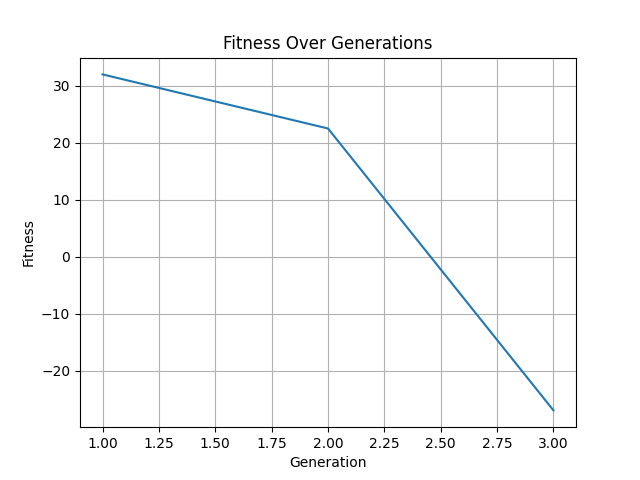
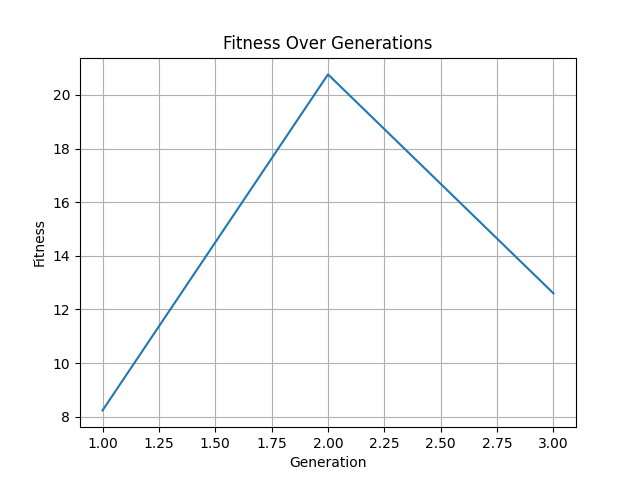
added our agent

diff --git a/project/ga_betting.py b/project/ga_betting.py
@@ -11,10 +11,10 @@ from known_strat import regular_table_known, ace_table_known, pair_table_known
 
 K = 20
 SEED = 42
-POP_SIZE = 10
+POP_SIZE = 100
 SIGMA = 4
-MAX_GENS = 2
-NR_ROUNDS = 30
+MAX_GENS = 250
+NR_ROUNDS = 100000
 CROSSOVER = True
 BET_TABLE_SIZE = 15
 MU = 4/BET_TABLE_SIZE
@@ -180,7 +180,7 @@ def test_different_agents():
     print(f'Fittest agent (known strat): {best_agent.betting_table.bets}')
     known_fitnesses.extend(fitnesses)
 
-    with open('results/best_agent_mu5.pkl', 'rb') as f:
+    with open('results/best_agent_ours.pkl', 'rb') as f:
         our_agent = pickle.load(f)
     global CUR_STRAT
     CUR_STRAT = our_agent.getAgentStrategy()
@@ -237,8 +237,14 @@ def main():
     np.random.seed(SEED)
     # test_different_mu()
     # run_single_algorithm()
-    # test_different_agents()
-    test_different_deck_count()
+    test_different_agents()
+    # test_different_deck_count()
+    # with open('results/best_agent_ours.pkl', 'rb') as f:
+    #     our_agent = pickle.load(f)
+    # global CUR_STRAT
+    # print(CUR_STRAT)
+    # CUR_STRAT = our_agent.getAgentStrategy()
+    # print(CUR_STRAT)
 
 if __name__ == '__main__':
     main()

diff --git a/project/agent.py b/project/agent.py
@@ -256,8 +256,10 @@ def save_agent_to_file(agent, filename_pickle):
         pickle.dump(agent, file) # Pickling in case we want to run experiments on the best agent.
 
 if __name__ == "__main__":
+    with open('results/best_agent_ours.pkl', 'rb') as f:
+        our_agent = pickle.load(f)
     known_strat = DecisionTables(lookup_table_regular=regular_table_known,lookup_table_ace=ace_table_known, lookup_table_pair=pair_table_known)
-    agent = Agent(100000, decision_tables=known_strat)
+    agent = Agent(10000000, decision_tables=our_agent.getAgentStrategy())
     agent.decision_tables.printTables()
     agent.playGame()
     print(agent.getAgentFitness())

diff --git a/project/ga.py b/project/ga.py
@@ -14,8 +14,8 @@ POP_SIZE = 100
 MU = 4 / TABLE_SIZE
 MAX_GENS = 250
 NR_ROUNDS = 100000
-CROSSOVER = 0.8
-MUTATION_CHANCE = 0.8
+CROSSOVER = 1
+MUTATION_CHANCE = 1
 
 ########################################
 # Functions for evolutionary algorithm #
